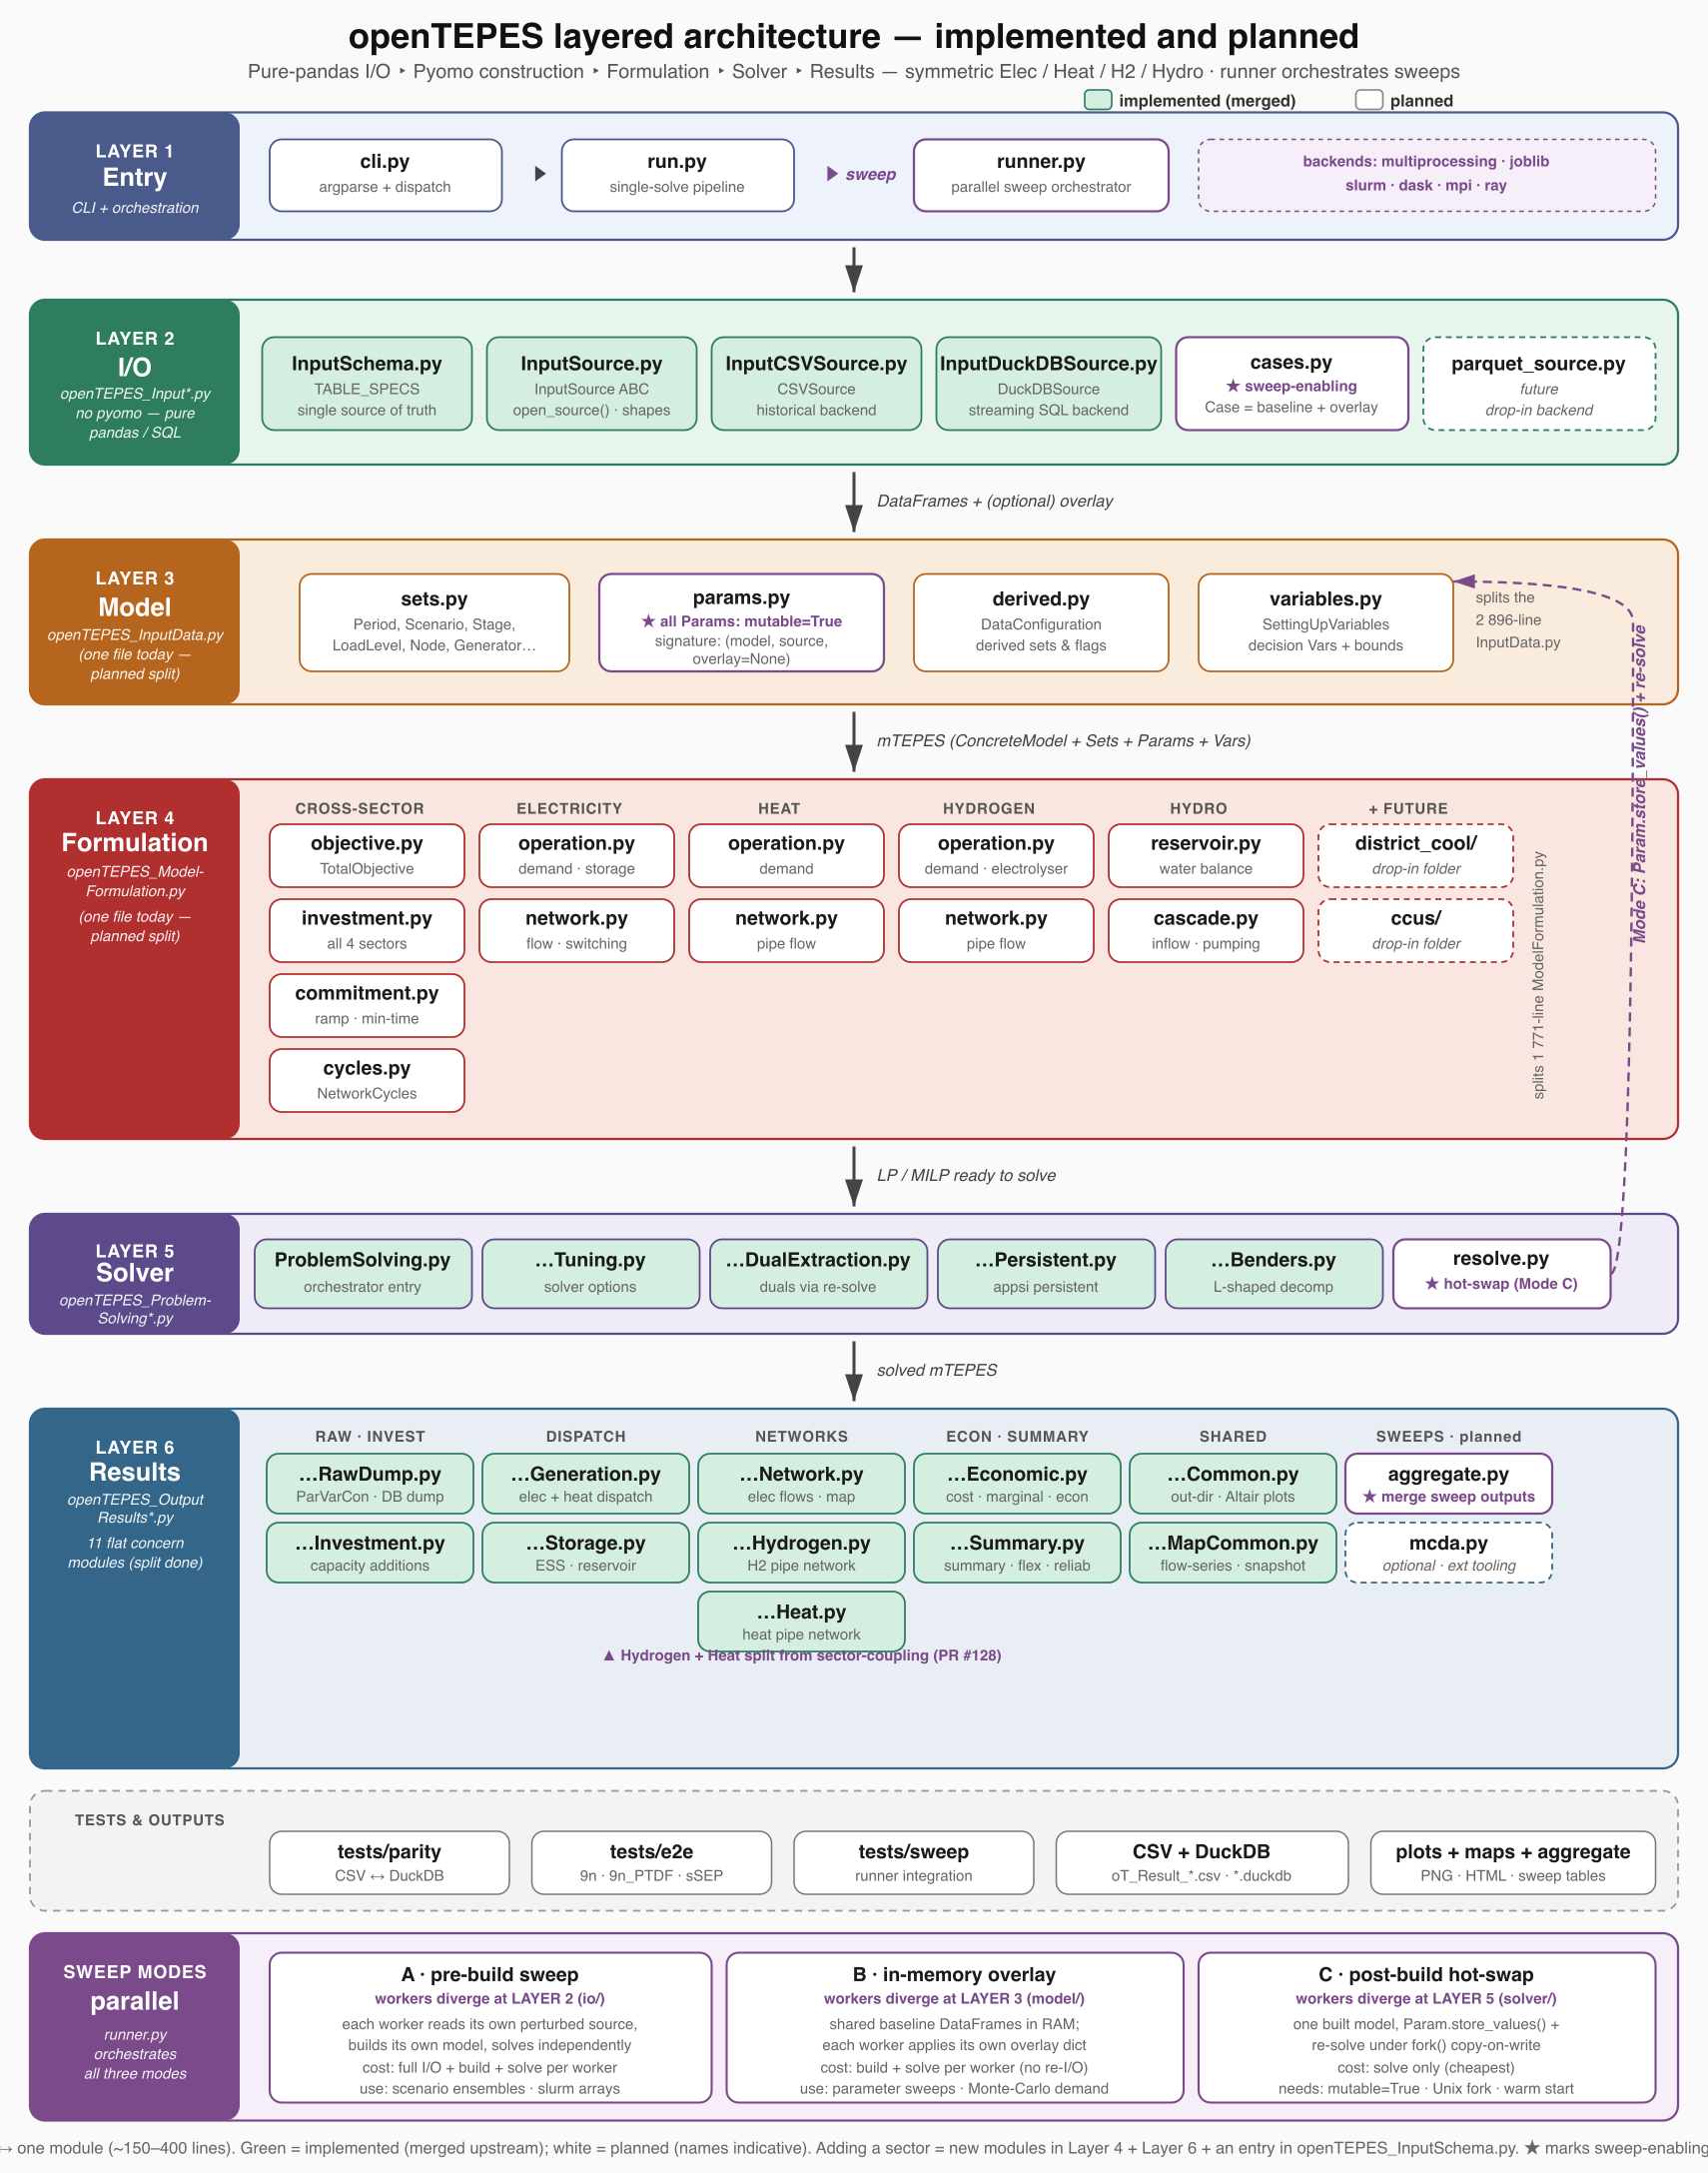
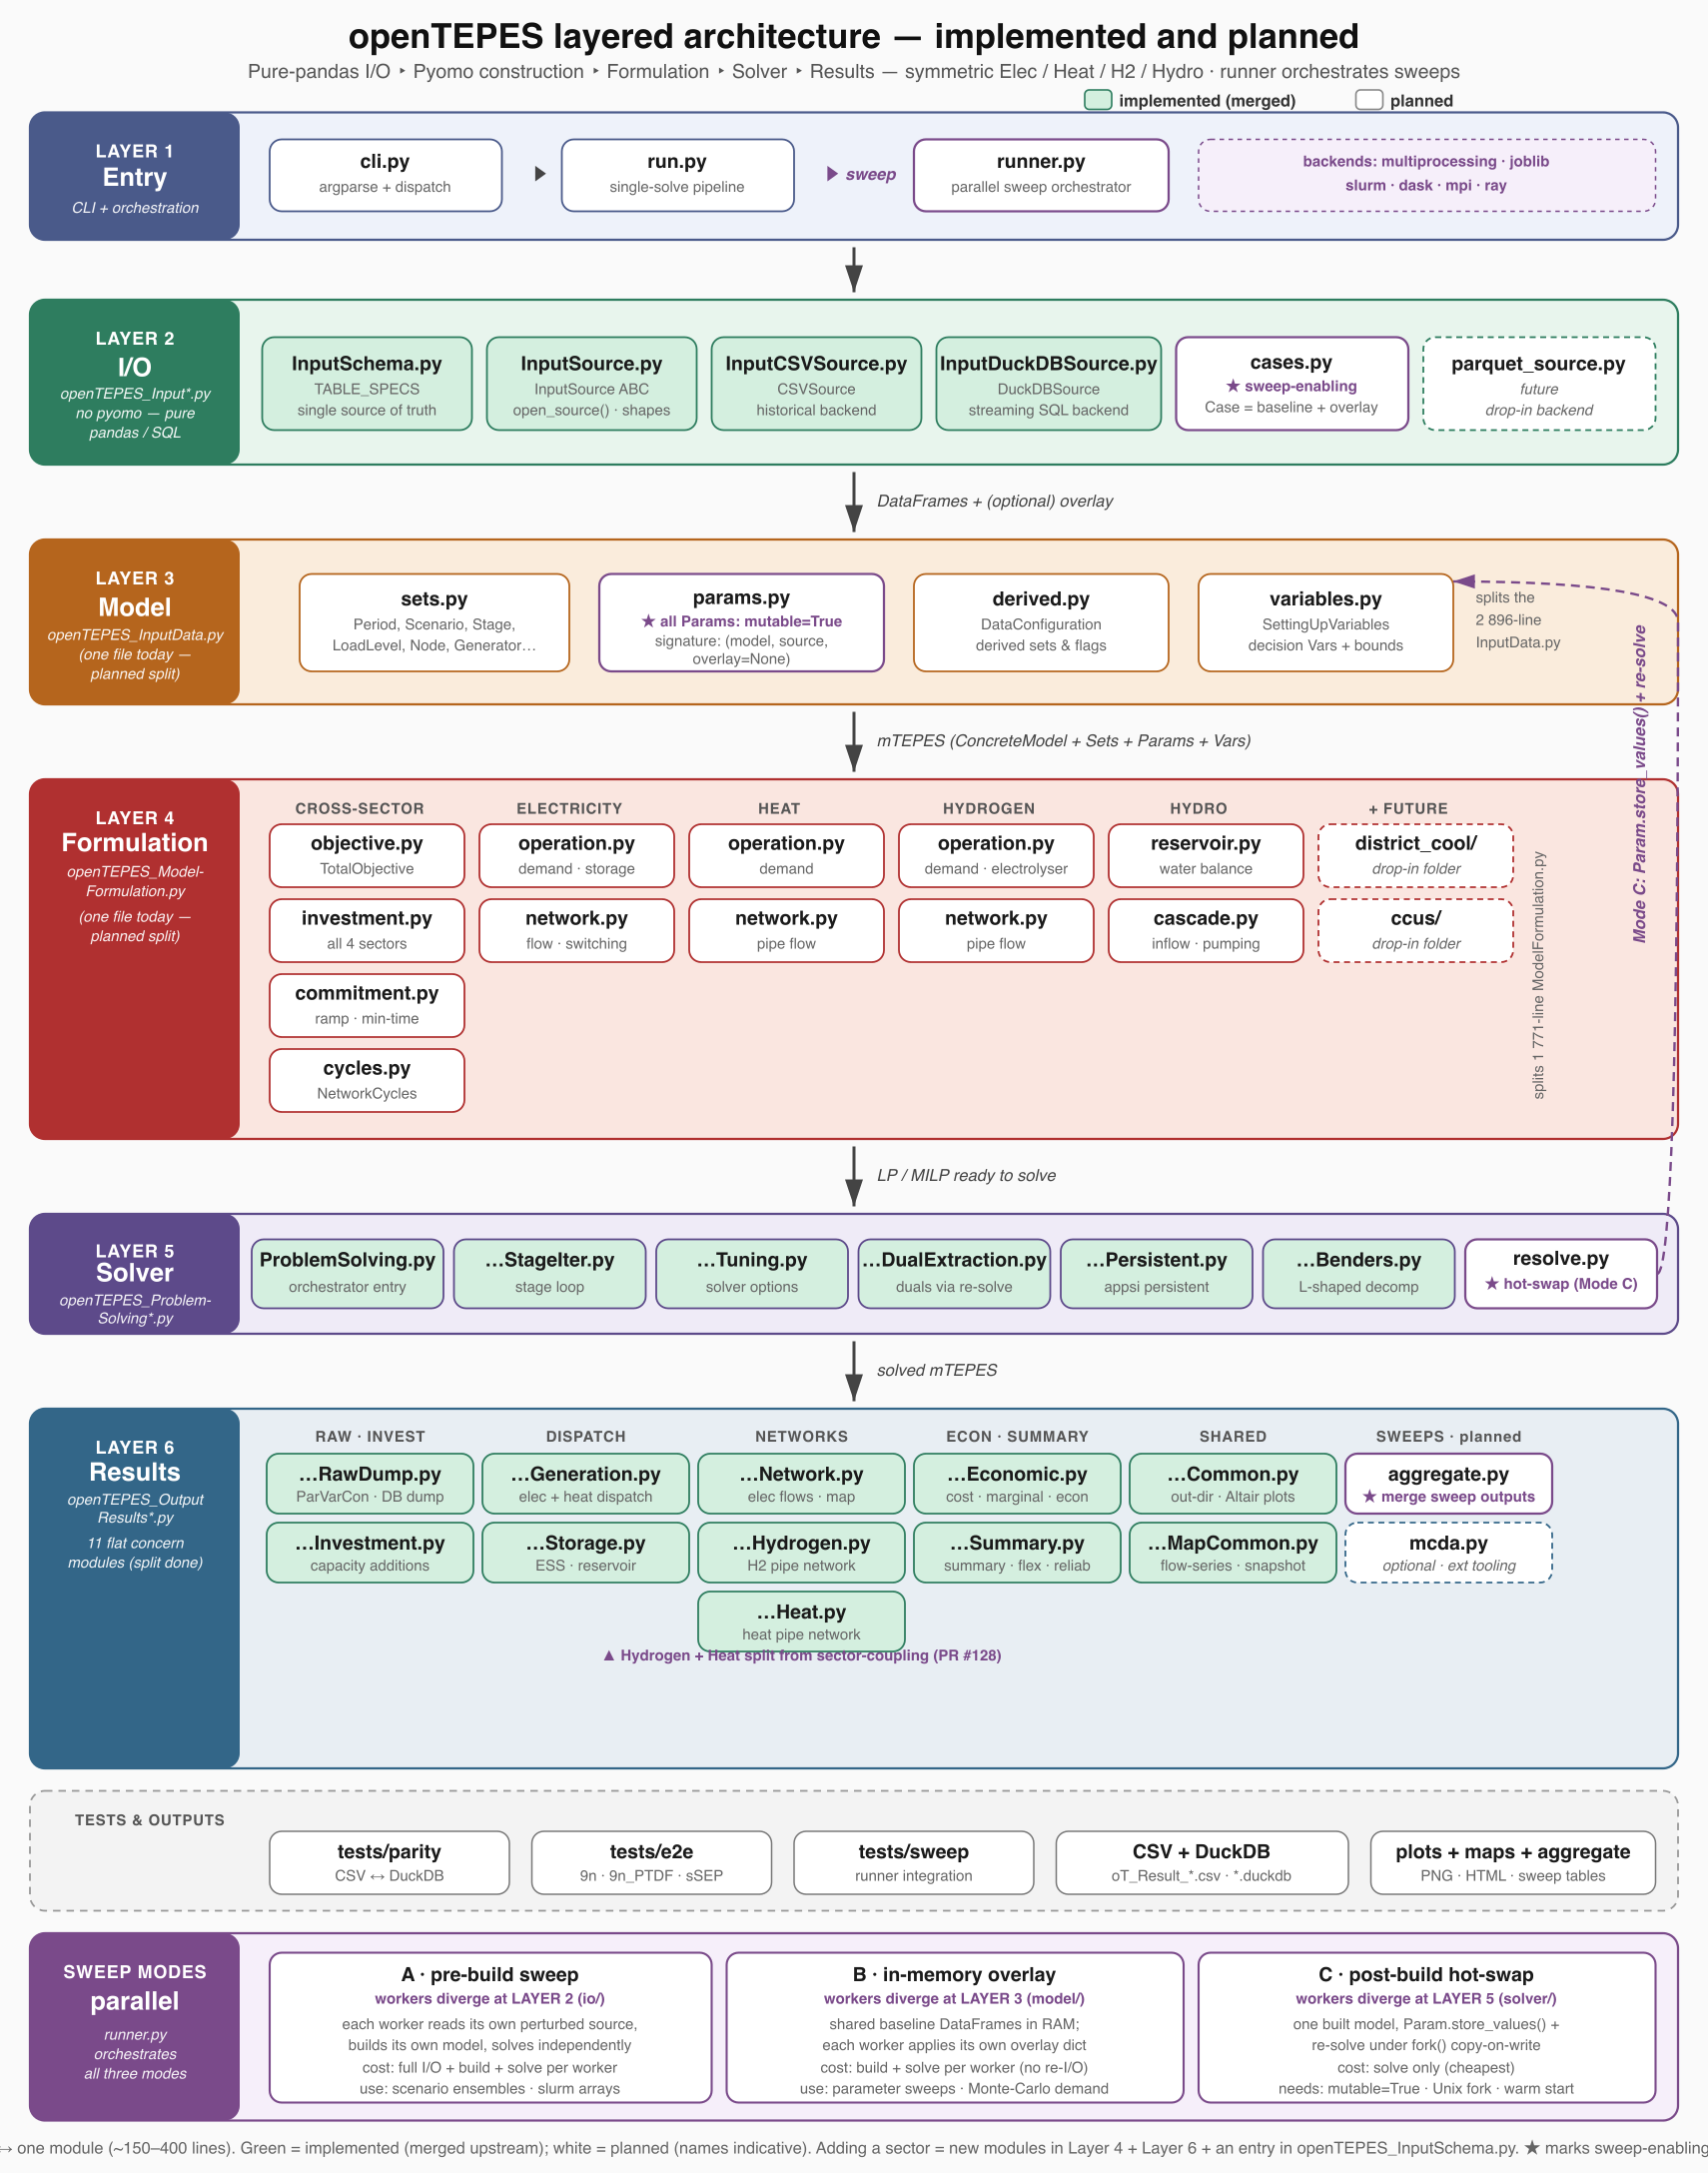
test: guard relative-import fallback; docs: show StageIter in architecture figure

Changed region(s): [[0.155, 0.5545, 0.9608, 0.6161]]

diff --git a/CHANGELOG.md b/CHANGELOG.md
@@ -2,6 +2,7 @@
 
 ## [4.18.17RC] - 2026-06-04 Unreleased in PyPI
 
+- [CHANGED] update the architecture diagram (`doc/img/openTEPES_architecture.svg` and the rendered `.png`) to show the new `openTEPES_ProblemSolvingStageIter.py` as an implemented (green) box in the solver layer, alongside `ProblemSolving`, `Tuning`, `DualExtraction`, `Persistent` and `Benders`; `resolve.py` stays white as the one solver module still planned. The seven boxes are re-spaced to fit the layer's existing width — no other layer changes.
 - [ADDED] a test (`tests/test_direct_run.py`) that runs every `openTEPES_*.py` module as a script (via `runpy`, with `__name__ == "__main__"`) to check that each one still imports cleanly that way — i.e. the `try`/`except ImportError` relative-import guard's fallback works. A normal `import openTEPES` only ever takes the relative-import path, so until now nothing checked the fallback; a broken guard, a missing import, or a circular import in any module would only surface when a user runs the file directly (VS Code "Run Python File"). The test solves no model, so it runs in the fast CI job; it excludes `openTEPES_Main.py`, which has a real `__main__` block that would launch the command-line interface.
 - [CHANGED] move the per-stage solve loop out of `openTEPES_run` into a new module `openTEPES_ProblemSolvingStageIter.py`. The `(period, scenario, stage)` loop — which activates one stage's load levels, builds that stage's operation constraints, and calls `ProblemSolving` — now lives in a function `StageIterativeSolving`, together with the post-loop work that rebuilds the full stage and load-level sets, reactivates every constraint, and restores the scenario probabilities. `openTEPES.py` still builds the objective and the investment constraints, sets `First_st` / `Last_st` and the empty `pDuals`, and then calls the new driver. The two solve paths are unchanged: a deterministic solve per scenario when there are no expansion decisions and no system emission or RES-energy limit, and one joint stochastic solve at the last period-scenario otherwise. This is a pure move — the loop body is copied unchanged — so results do not change: the whole solve test suite passes with the same locked costs, and a full-output run of case 9n gives the same total cost ([phone redacted] MEUR, matching to 13 significant figures; only the per-unit dispatch tables move, by the amount HiGHS already varies run-to-run when it picks among equally optimal storage schedules). The new module uses the same `try`/`except ImportError` relative-import guard as the other split modules, so "Run Python File" still works on it. This continues the solver-layer split (after the Persistent, Tuning and DualExtraction modules) and gives the later re-solve and decomposition drivers a single place to call the stage loop from.
 - [CHANGED] split the ~2800-line `openTEPES_OutputResults.py` into per-concern modules at the package root — the output-side counterpart of the earlier `openTEPES_Input*` and `openTEPES_ProblemSolving*` splits. The result writers now live in `openTEPES_OutputResultsInvestment.py`, `...Generation.py`, `...Storage.py`, `...Hydrogen.py` (hydrogen network), `...Heat.py` (heat network), `...Network.py` (electricity network and map), `...Economic.py` (marginal, cost-summary, economic), `...Summary.py` (system summary, flexibility, reliability), and `...RawDump.py` (the raw parameter/variable/constraint DuckDB dump). Shared pieces sit in `openTEPES_OutputResultsCommon.py` (the output-directory helper and the three Altair plot builders) and `openTEPES_OutputResultsMapCommon.py` (the flow-series and snapshot-period helpers the three network maps had each copied). The old `openTEPES_OutputResults.py` is removed: `__init__.py` and `openTEPES.py` import the result functions from the concern modules directly, the same way the Input and ProblemSolving splits are wired (no re-export facade). Functions are grouped by topic; the dispatch order is still controlled by `OUTPUT_REGISTRY` in `openTEPES.py` and is unchanged. Every cross-module import uses the same `try`/`except ImportError` relative-import guard as the other split modules, so "Run Python File" works. Verified bit-identical with the output parity tool on case 9n (`PYTHONHASHSEED=0`, all 87 result tables; total cost 164.382043867 MEUR). Two small cleanups made while moving the code: removed 34 no-op `"".join([f"..."])` wrappers (each is just the f-string) and stopped `ESSOperationResults` from writing its inventory-utilization scaling back into `mTEPES.pMaxStorage` (the denominator is now computed locally, so the scaled value no longer leaks to later reads of the parameter).